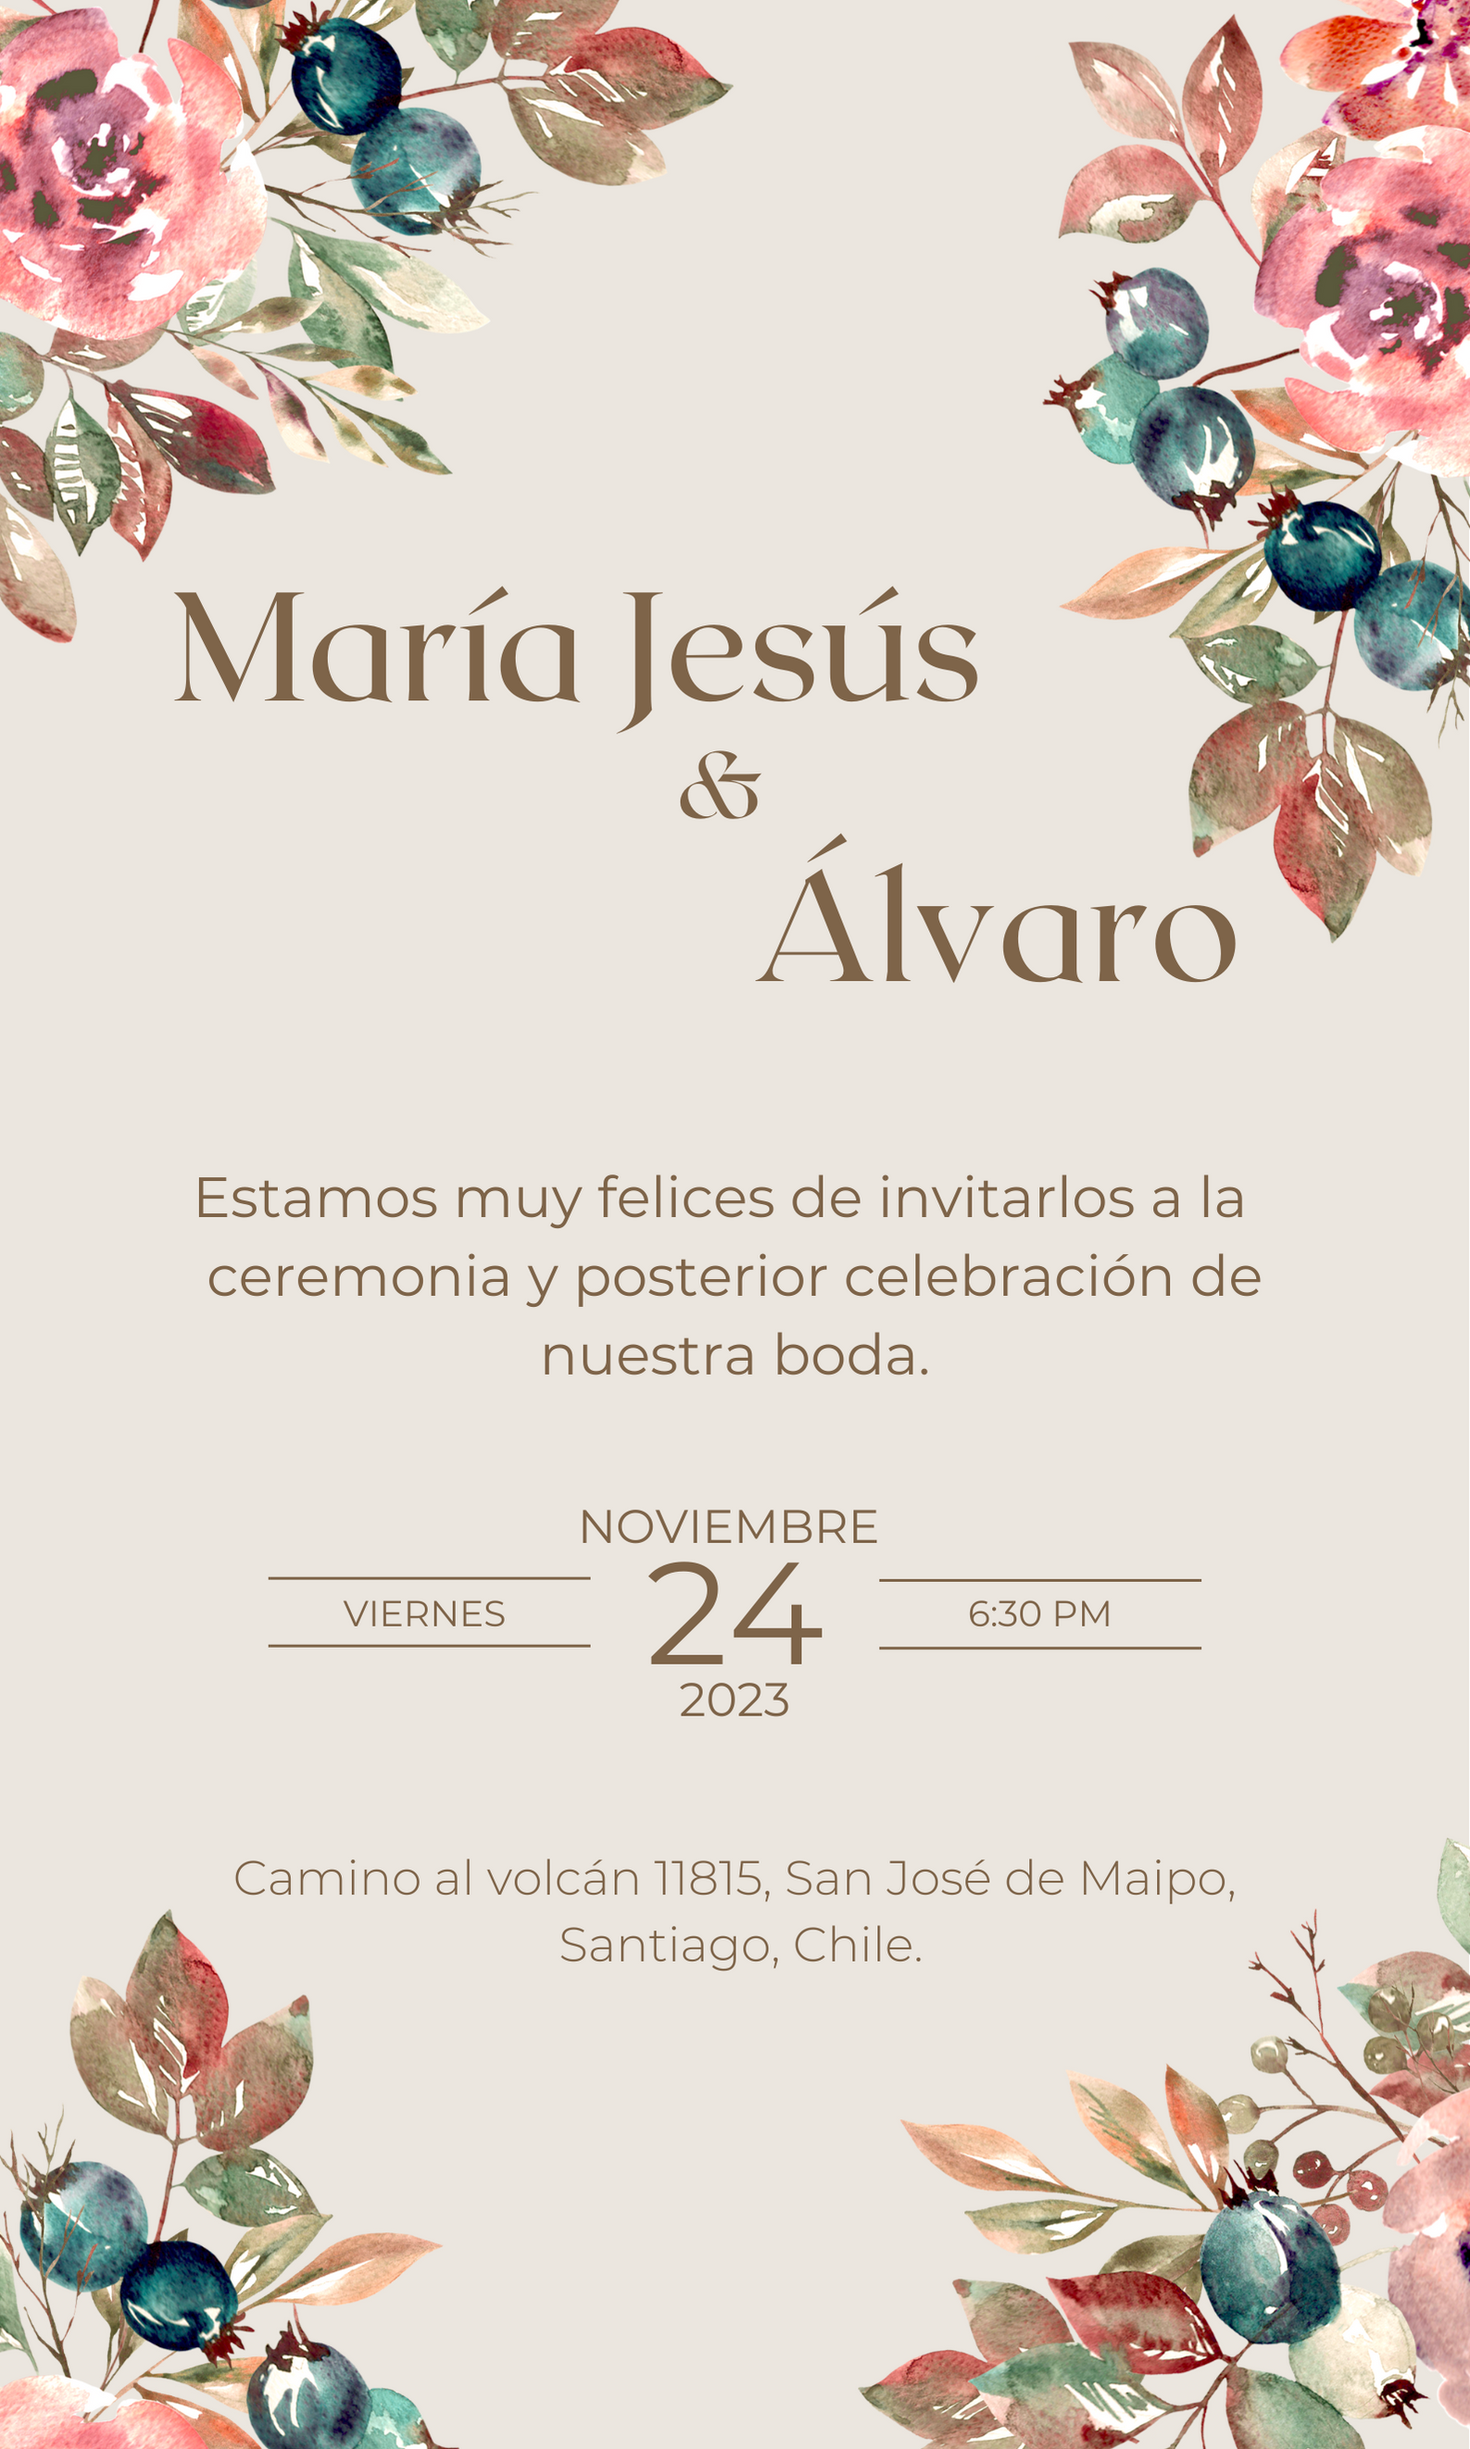
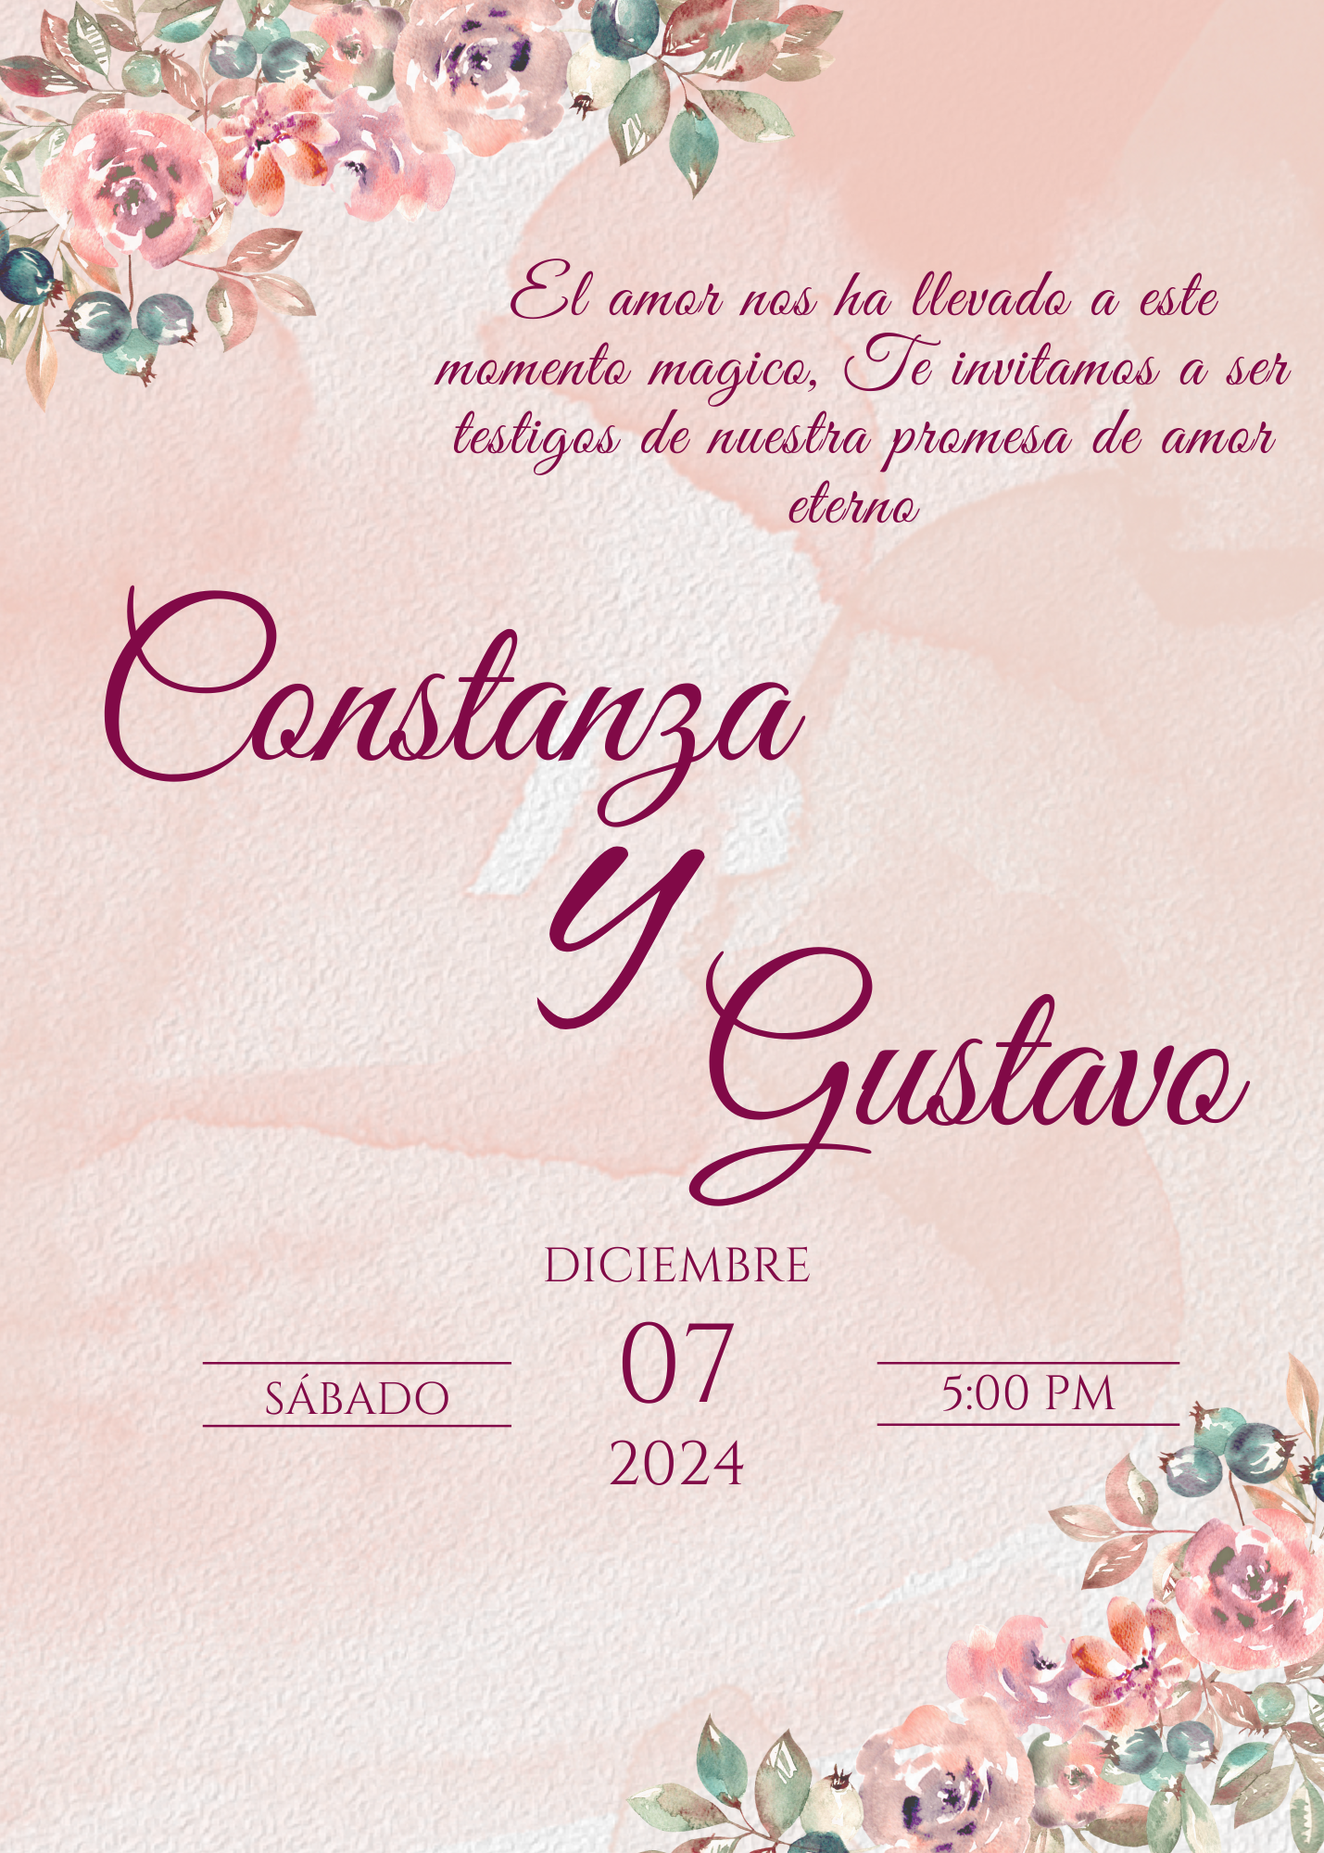
cambios 2

diff --git a/src/App.js b/src/App.js
@@ -1,9 +1,22 @@
 import React, { useEffect, useState } from "react";
-import ReactAudioPlayer from "react-audio-player";
 import "./App.css";
-import song from "./assets/songs/song.mp3";
 import countdown from "./assets/svgs/countdown.svg";
-import invitation from "./assets/svgs/invitacion2.png";
+import invitation from "./assets/svgs/invitacion.png";
+
+//fotos
+import photo1 from "./assets/fotos/1.jpeg";
+import photo2 from "./assets/fotos/2.jpeg";
+import photo3 from "./assets/fotos/3.jpeg";
+import photo4 from "./assets/fotos/4.jpeg";
+import photo5 from "./assets/fotos/5.jpeg";
+import photo6 from "./assets/fotos/6.jpeg";
+import photo7 from "./assets/fotos/7.jpeg";
+import photo8 from "./assets/fotos/8.jpeg";
+import photo9 from "./assets/fotos/9.jpeg";
+
+//Audio
+import ReactAudioPlayer from "react-audio-player";
+import song from "./assets/songs/song.mp3";
 
 //Photos
 import fondo from "./assets/fotos/fondo.png";
@@ -183,7 +196,7 @@ const App = () => {
           ></iframe>
           <div>
             <Title
-              title={"Y despues nos transladaremos a la fiesta en:"}
+              title={"y posteriormente... nos vamos a la fiesta!"}
               description={
                 "Centro de eventos Colibri 88MF+M5, Buin, Región Metropolitana"
               }
@@ -264,7 +277,7 @@ const App = () => {
           <Title
             title="Canciones que no pueden faltar"
             description={
-              "Agrega a nuestra playlist de Spotify tus mejores recomendaciones"
+              "Para que bailemos hasta abajo puedes incluir las canciones que quieras en spotify y ¡ no olvides traer zapatos comodos de recambio!"
             }
             buttonText={"Únete aquí"}
             onPress={() => {
@@ -278,8 +291,15 @@ const App = () => {
 
         <ReactAudioPlayer src={song} autoPlay={true} />
 
-        {/*  <div style={{ paddingTop: "5vmin" }} class="container">
+        <div style={{ paddingTop: "5vmin" }} class="container">
           <div class="gallery-container w-3 h-2">
+            <div class="gallery-item">
+              <div class="image">
+                <img src={photo2} alt="people" />
+              </div>
+            </div>
+          </div>
+          <div class="gallery-container w-6 h-2">
             <div class="gallery-item">
               <div class="image">
                 <img src={photo1} alt="nature" />
@@ -290,20 +310,12 @@ const App = () => {
           <div class="gallery-container w-3 h-2">
             <div class="gallery-item">
               <div class="image">
-                <img src={photo2} alt="people" />
-              </div>
-            </div>
-          </div>
-
-          <div class="gallery-container w-2 h-2">
-            <div class="gallery-item">
-              <div class="image">
                 <img src={photo4} alt="fitness" />
               </div>
             </div>
           </div>
 
-          <div class="gallery-container w-4 h-1">
+          <div class="gallery-container w-6 h-2">
             <div class="gallery-item">
               <div class="image">
                 <img src={photo5} alt="food" />
@@ -311,7 +323,7 @@ const App = () => {
             </div>
           </div>
 
-          <div class="gallery-container">
+          <div class="gallery-container w-3 h-2">
             <div class="gallery-item">
               <div class="image">
                 <img src={photo6} alt="travel" />
@@ -333,14 +345,22 @@ const App = () => {
               </div>
             </div>
           </div>
-          <div class="gallery-container w-3 h-1">
+
+          <div class="gallery-container w-3 h-2">
             <div class="gallery-item">
               <div class="image">
                 <img src={photo8} alt="sport" />
               </div>
             </div>
           </div>
-        </div> */}
+          <div class="gallery-container w-6 h-3">
+            <div class="gallery-item">
+              <div class="image">
+                <img src={photo9} alt="sport" />
+              </div>
+            </div>
+          </div>
+        </div>
       </header>
     </div>
   );
